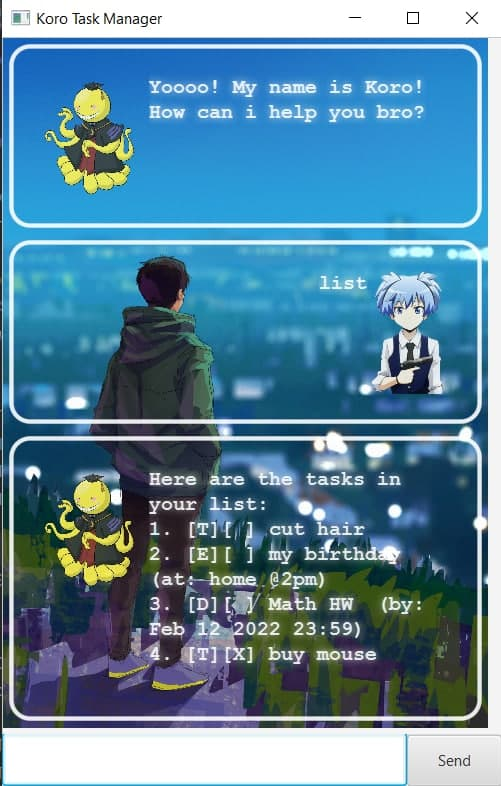
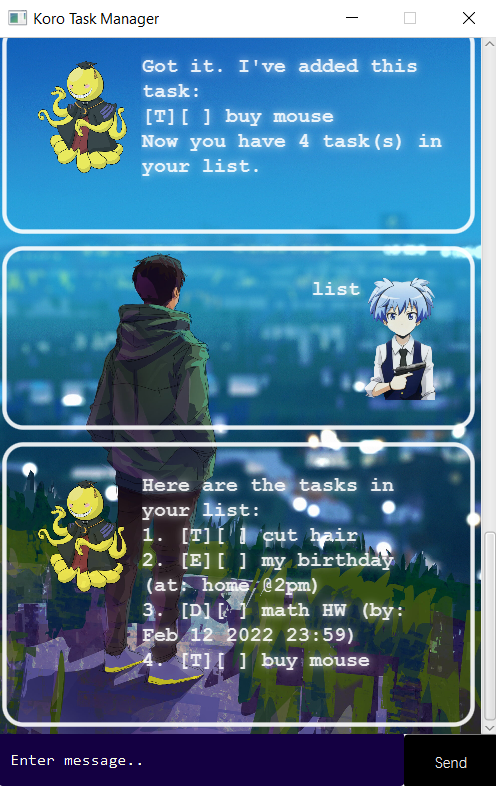
Add background color to textField

diff --git a/src/main/java/duke/Main.java b/src/main/java/duke/Main.java
@@ -25,8 +25,6 @@ public class Main extends Application {
             stage.setTitle("Koro Task Manager");
             stage.setResizable(false);
             stage.setScene(scene);
-            stage.setMinHeight(600.0);
-            stage.setMinWidth(400.0);
 
             fxmlLoader.<MainWindow>getController().setDuke(duke);
             stage.show();
